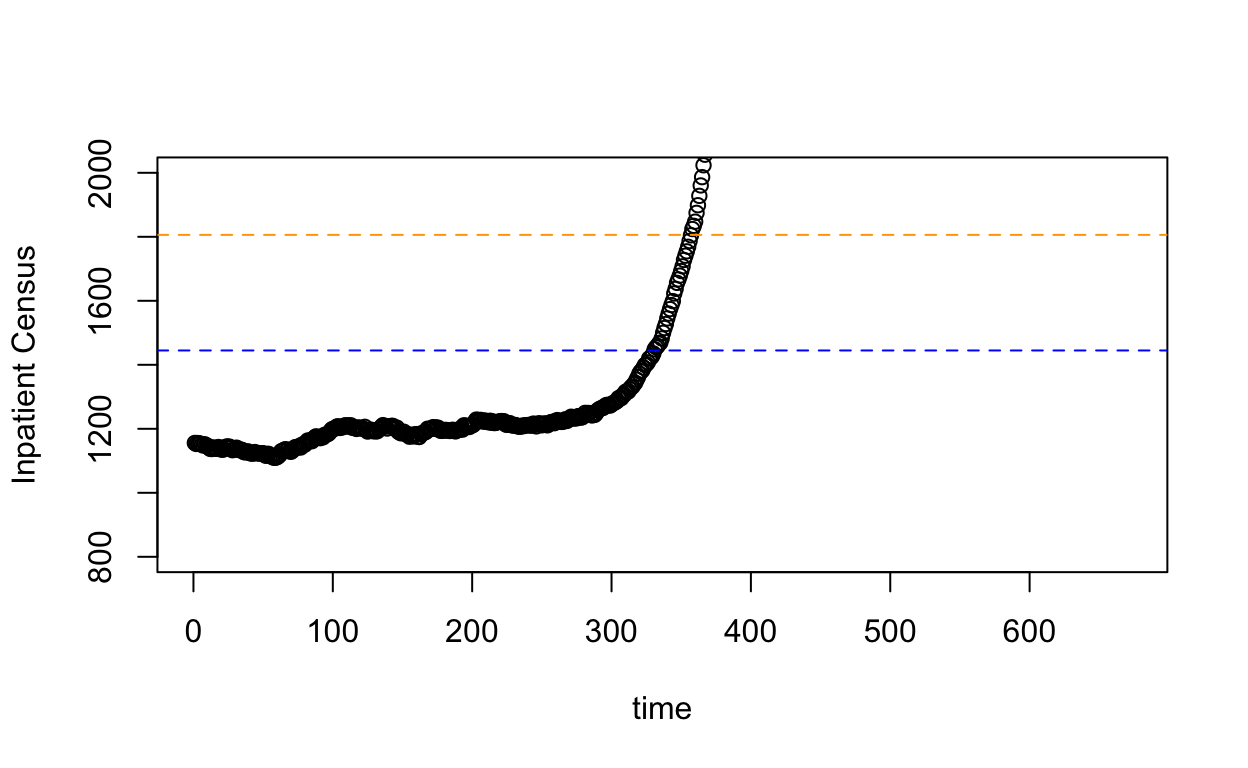
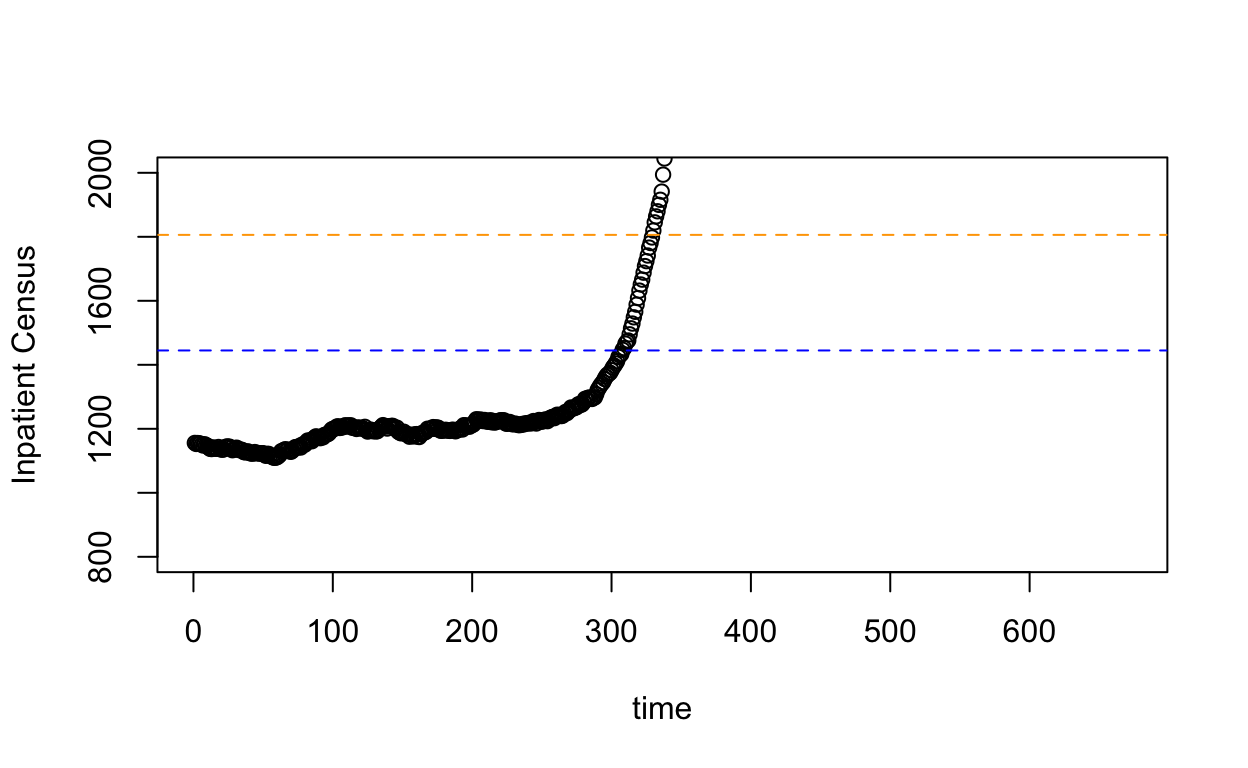
adding stuff

Changed region(s): [[0.4062, 0.2188, 0.5938, 0.5625]]

diff --git a/docs/posts/2020-03-13-flatten-the-curve/index.html b/docs/posts/2020-03-13-flatten-the-curve/index.html
@@ -1345,13 +1345,13 @@ gtag('config', 'UA-110093032-1');
 <p>I just wanted to write up a quick exponential growth model for my county. I have been saddened that the local department of public health has been underestimating the power of exponential growth.</p>
 <h2 id="setting-up-the-model">Setting Up the Model</h2>
 <p>Just using some of the numbers that have been floating around (and cited in some recent literature that when I am not tired I will cite<a href="#fn1" class="footnote-ref" id="fnref1"><sup>1</sup></a>) one can quickly simulate possible infections. <strong>I am not an epidemiologist</strong>, but I do have a strong appreciation for exponential growth.</p>
-<p>To build the model, I am going to take a reproductive rate of 2.28. Additionally, we can add some noise to it in order to simulate 1,000 different scenarios. We know that we have two initial cases (more now as I write), so we’ll take that as <span class="math inline">\(x_0\)</span></p>
+<p>To build the model, I am going to take a reproductive rate of 2.28. Additionally, we can add some noise to this estimate in order to simulate 1,000 different scenarios. We know that we have two initial cases (more now as I write), so we’ll take that as <span class="math inline">\(x_0\)</span></p>
 <p>So we take the following model:</p>
 <p><span class="math display">\[y_{infected}=x_0*(R_0)^t\]</span> Where:</p>
 <p><span class="math display">\[x_0 = \text{initial number of cases}\]</span> <span class="math display">\[R_0 = \text{Reproductive Number}\]</span> <span class="math display">\[t = \text{time period}\]</span></p>
 <p>Additionally, for this simulation we will assume:</p>
 <p><span class="math display">\[R_0 \sim N(2.28,.5)\]</span></p>
-<p>Normal might not be the best probability distribution to assume for this number (here’s where a <a href="https://en.wikipedia.org/wiki/Split_normal_distribution">split or two piece distribution</a> would make sense because we know it might not be much lower but could be much higher.)</p>
+<p>The Normal distribution might not be the best probability distribution to assume for this number (here’s where a <a href="https://en.wikipedia.org/wiki/Split_normal_distribution">split or two piece distribution</a> would make sense because we know it might not be much lower but could be much higher.), but it will be a good start at least to get a sign and magnitude feel for the situation.</p>
 <div class="layout-chunk" data-layout="l-body-outset">
 <pre class="r"><code>
 library(dplyr)
@@ -1396,7 +1396,7 @@ Figure 1: Estimation of Number of Infections in Forsyth County with 90% Confiden
 </p>
 </div>
 </div>
-<p>Now when we talk about flattening the curve, if we can reduce the reproductive rate mean value from above 2 to one, we can see the following:</p>
+<p>Now when we talk about <strong>flattening the curve</strong>, if we can reduce the reproductive rate mean value from above 2 to one, we can see the following:</p>
 <div class="layout-chunk" data-layout="l-body-outset">
 <pre class="r"><code>
 r0 &lt;- rnorm(1000, 1,.5)
@@ -1424,10 +1424,10 @@ Figure 2: Number of Infections in Forsyth County with Reproductive Rate of 1
 </p>
 </div>
 </div>
-<p>This is a much better situation. Regardless, we are still looking at a lot of people sick. The entire county could quite possibly be infected, but at least there is some delay.</p>
+<p>This is a much better situation. Regardless, we are still looking at a lot of sick people. The entire county could quite possibly be infected within the month, but at least there is some delay to allow our health system to compensate and put plans into place.</p>
 <h2 id="hospital-capacity">Hospital Capacity</h2>
 <p>Which really is the main point of it all: massive increases in the sick put huge stress on the hospitals and health care systems in general.</p>
-<p>In Forsyth county we have two main hospitals Novant Forsyth (921 registered beds) and Wake Forest Baptist Medical Center (885 registered beds). All in that gives up 1806 beds. In reality, most hospitals operate at 80% capacity be it through staffing decisions (or inability to find nursing, etc) or through protection of surge capacity for just these types of issues.</p>
+<p>In Forsyth county we have two main hospitals Novant Forsyth (921 registered beds) and Wake Forest Baptist Medical Center (885 registered beds). All in that gives us 1806 beds. In reality, most hospitals operate at 80% capacity be it through staffing decisions (or inability to find nursing, etc) or through protection of surge capacity for just these types of issues.</p>
 <h2 id="flow">Flow</h2>
 <p>For the sake of this simulation let’s assume that about 20% of the staffed beds turn over each day. Additionally, assume that there is some additional admit/discharge capacity. Here I mean how fast can the hospital actually process people (e.g. it takes time to move a patient, find a bed for them, go through the admission process. On the discharge there is some time spend arranging for placement, finding transportation, etc).</p>
 <p>Now we can simulate the rough census or volume of patients in the hospital at any given time using the following simulation.</p>
@@ -1505,7 +1505,7 @@ for(i in 2:horizon_t){
 
 saturation &lt;- round(which(queue_pan&gt;n_beds)[1]/24)</code></pre>
 </div>
-<p>We can see very quickly that saturates the healthcare system (actually the number patients outnumbers the number of beds available by day 9).</p>
+<p>We can see very quickly that saturates the healthcare system (actually the number patients outnumbers the number of beds available by day 8).</p>
 <div class="layout-chunk" data-layout="l-body-outset">
 <pre class="r"><code>
 plot(queue_pan, ylim= c(800, 2000), 
@@ -1542,7 +1542,7 @@ for(i in 2:horizon_t){
 
 saturation &lt;- round(which(queue_pan&gt;n_beds)[1]/24)</code></pre>
 </div>
-<p>We can see that we still saturate the system by day 15, but at least we have a few more days. In reality, all of these models are approximations</p>
+<p>We can see that we still saturate the system by day 14, but at least we have a few more days. In reality, all of these models are approximations</p>
 <div class="layout-chunk" data-layout="l-body-outset">
 <pre class="r"><code>
 plot(queue_pan, ylim= c(800, 2000), 

diff --git a/_posts/2020-03-13-flatten-the-curve/flatten-the-curve.html b/_posts/2020-03-13-flatten-the-curve/flatten-the-curve.html
@@ -967,13 +967,13 @@
 <p>I just wanted to write up a quick exponential growth model for my county. I have been saddened that the local department of public health has been underestimating the power of exponential growth.</p>
 <h2 id="setting-up-the-model">Setting Up the Model</h2>
 <p>Just using some of the numbers that have been floating around (and cited in some recent literature that when I am not tired I will cite<a href="#fn1" class="footnote-ref" id="fnref1"><sup>1</sup></a>) one can quickly simulate possible infections. <strong>I am not an epidemiologist</strong>, but I do have a strong appreciation for exponential growth.</p>
-<p>To build the model, I am going to take a reproductive rate of 2.28. Additionally, we can add some noise to it in order to simulate 1,000 different scenarios. We know that we have two initial cases (more now as I write), so we’ll take that as <span class="math inline">\(x_0\)</span></p>
+<p>To build the model, I am going to take a reproductive rate of 2.28. Additionally, we can add some noise to this estimate in order to simulate 1,000 different scenarios. We know that we have two initial cases (more now as I write), so we’ll take that as <span class="math inline">\(x_0\)</span></p>
 <p>So we take the following model:</p>
 <p><span class="math display">\[y_{infected}=x_0*(R_0)^t\]</span> Where:</p>
 <p><span class="math display">\[x_0 = \text{initial number of cases}\]</span> <span class="math display">\[R_0 = \text{Reproductive Number}\]</span> <span class="math display">\[t = \text{time period}\]</span></p>
 <p>Additionally, for this simulation we will assume:</p>
 <p><span class="math display">\[R_0 \sim N(2.28,.5)\]</span></p>
-<p>Normal might not be the best probability distribution to assume for this number (here’s where a <a href="https://en.wikipedia.org/wiki/Split_normal_distribution">split or two piece distribution</a> would make sense because we know it might not be much lower but could be much higher.)</p>
+<p>The Normal distribution might not be the best probability distribution to assume for this number (here’s where a <a href="https://en.wikipedia.org/wiki/Split_normal_distribution">split or two piece distribution</a> would make sense because we know it might not be much lower but could be much higher.), but it will be a good start at least to get a sign and magnitude feel for the situation.</p>
 <div class="layout-chunk" data-layout="l-body-outset">
 <pre class="r"><code>
 library(dplyr)
@@ -1018,7 +1018,7 @@ Figure 1: Estimation of Number of Infections in Forsyth County with 90% Confiden
 </p>
 </div>
 </div>
-<p>Now when we talk about flattening the curve, if we can reduce the reproductive rate mean value from above 2 to one, we can see the following:</p>
+<p>Now when we talk about <strong>flattening the curve</strong>, if we can reduce the reproductive rate mean value from above 2 to one, we can see the following:</p>
 <div class="layout-chunk" data-layout="l-body-outset">
 <pre class="r"><code>
 r0 &lt;- rnorm(1000, 1,.5)
@@ -1046,10 +1046,10 @@ Figure 2: Number of Infections in Forsyth County with Reproductive Rate of 1
 </p>
 </div>
 </div>
-<p>This is a much better situation. Regardless, we are still looking at a lot of people sick. The entire county could quite possibly be infected, but at least there is some delay.</p>
+<p>This is a much better situation. Regardless, we are still looking at a lot of sick people. The entire county could quite possibly be infected within the month, but at least there is some delay to allow our health system to compensate and put plans into place.</p>
 <h2 id="hospital-capacity">Hospital Capacity</h2>
 <p>Which really is the main point of it all: massive increases in the sick put huge stress on the hospitals and health care systems in general.</p>
-<p>In Forsyth county we have two main hospitals Novant Forsyth (921 registered beds) and Wake Forest Baptist Medical Center (885 registered beds). All in that gives up 1806 beds. In reality, most hospitals operate at 80% capacity be it through staffing decisions (or inability to find nursing, etc) or through protection of surge capacity for just these types of issues.</p>
+<p>In Forsyth county we have two main hospitals Novant Forsyth (921 registered beds) and Wake Forest Baptist Medical Center (885 registered beds). All in that gives us 1806 beds. In reality, most hospitals operate at 80% capacity be it through staffing decisions (or inability to find nursing, etc) or through protection of surge capacity for just these types of issues.</p>
 <h2 id="flow">Flow</h2>
 <p>For the sake of this simulation let’s assume that about 20% of the staffed beds turn over each day. Additionally, assume that there is some additional admit/discharge capacity. Here I mean how fast can the hospital actually process people (e.g. it takes time to move a patient, find a bed for them, go through the admission process. On the discharge there is some time spend arranging for placement, finding transportation, etc).</p>
 <p>Now we can simulate the rough census or volume of patients in the hospital at any given time using the following simulation.</p>
@@ -1127,7 +1127,7 @@ for(i in 2:horizon_t){
 
 saturation &lt;- round(which(queue_pan&gt;n_beds)[1]/24)</code></pre>
 </div>
-<p>We can see very quickly that saturates the healthcare system (actually the number patients outnumbers the number of beds available by day 9).</p>
+<p>We can see very quickly that saturates the healthcare system (actually the number patients outnumbers the number of beds available by day 8).</p>
 <div class="layout-chunk" data-layout="l-body-outset">
 <pre class="r"><code>
 plot(queue_pan, ylim= c(800, 2000), 
@@ -1164,7 +1164,7 @@ for(i in 2:horizon_t){
 
 saturation &lt;- round(which(queue_pan&gt;n_beds)[1]/24)</code></pre>
 </div>
-<p>We can see that we still saturate the system by day 15, but at least we have a few more days. In reality, all of these models are approximations</p>
+<p>We can see that we still saturate the system by day 14, but at least we have a few more days. In reality, all of these models are approximations</p>
 <div class="layout-chunk" data-layout="l-body-outset">
 <pre class="r"><code>
 plot(queue_pan, ylim= c(800, 2000), 
